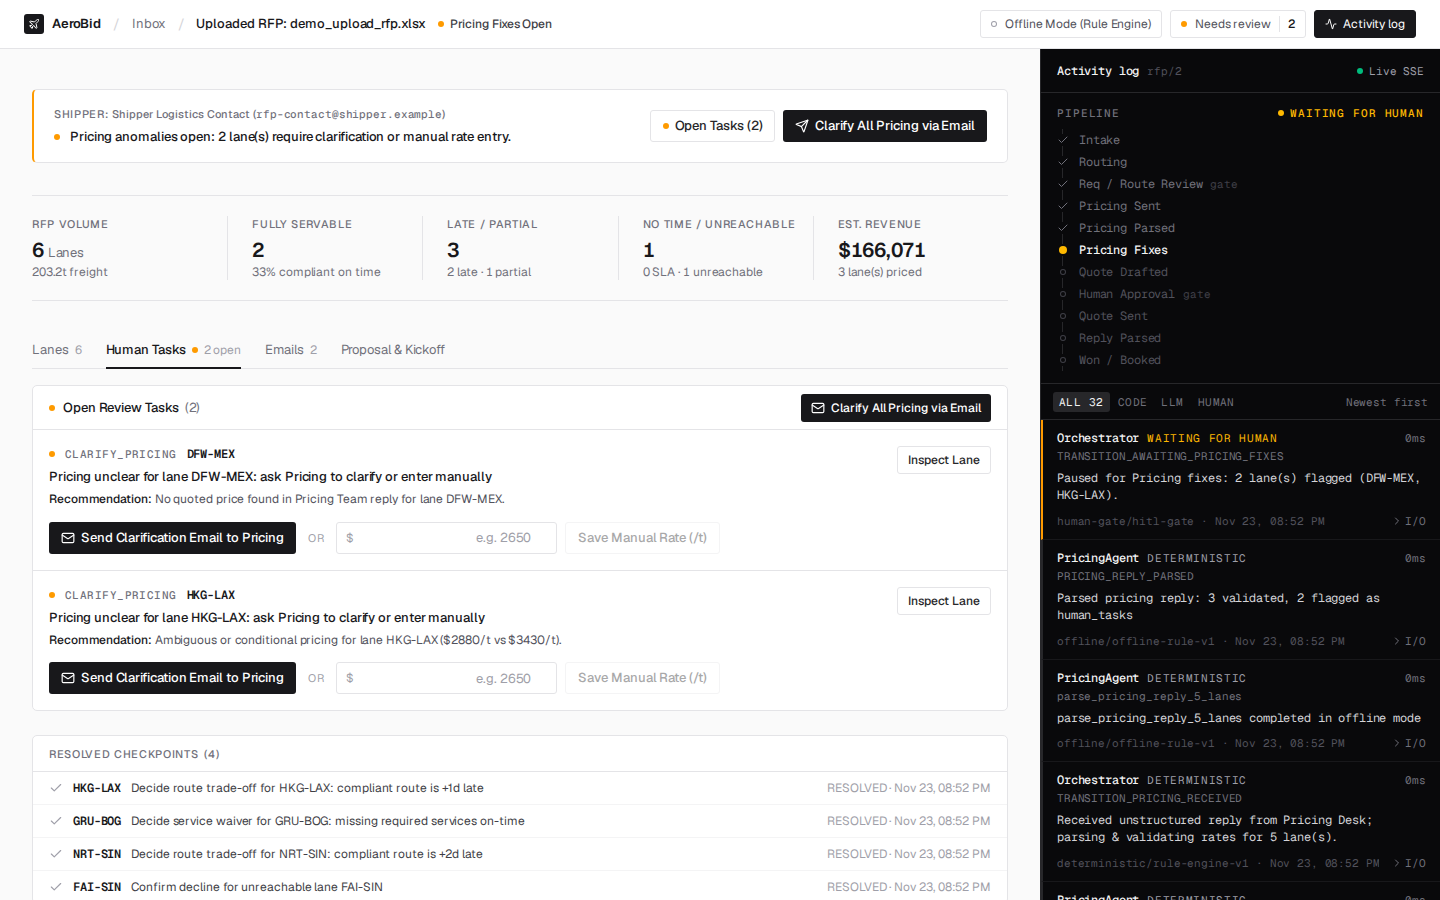
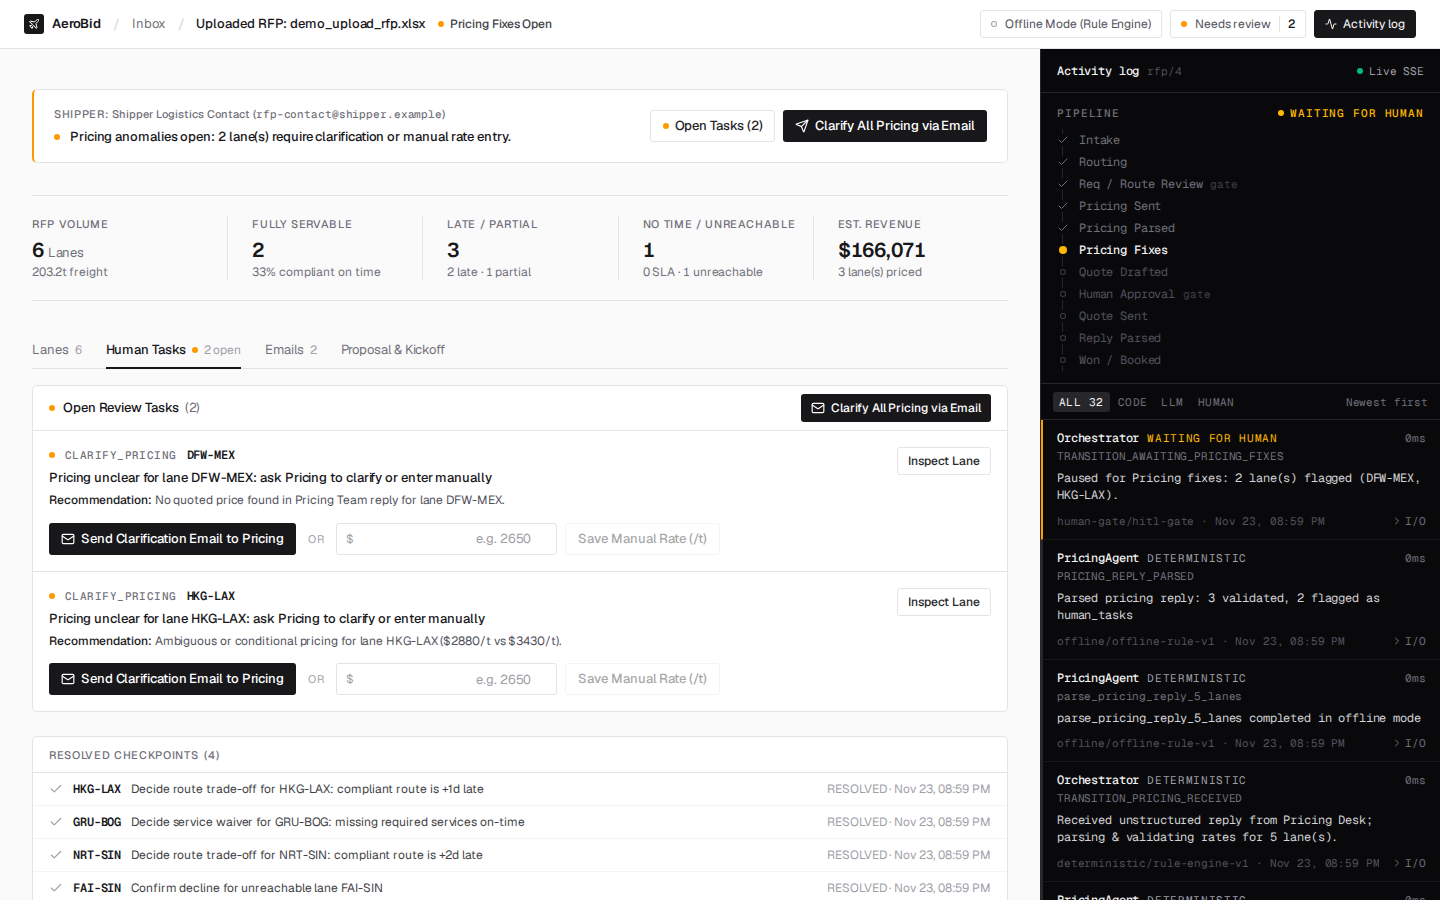
fix(ui): mobile header, drawer Escape, panel header wrap; add capture-shots script
- Collapse header labels on small screens so the RFP title stays visible
- Close the lane drawer with Escape; tidy missing-leg detail layout
- Let panel headers grow instead of overlapping content when wrapping
- Cap the activity log height on mobile
- Lane filters use aria-pressed instead of tab roles
- Add scripts/capture-shots.mjs (npm run capture-shots) and refresh shots

diff --git a/src/components/AppHeader.tsx b/src/components/AppHeader.tsx
@@ -44,7 +44,7 @@ export function AppHeader({
 
   return (
     <header className="sticky top-0 z-30 border-b border-zinc-200 bg-white">
-      <div className="flex h-12 items-center justify-between gap-4 px-6">
+      <div className="flex h-12 items-center justify-between gap-4 px-4 sm:px-6">
         <div className="flex min-w-0 items-center gap-3">
           <Link
             href="/"
@@ -60,12 +60,15 @@ export function AppHeader({
 
           {currentRfp && (
             <>
-              <span className="text-zinc-300" aria-hidden="true">
+              <span
+                className="hidden text-zinc-300 sm:inline"
+                aria-hidden="true"
+              >
                 /
               </span>
               <Link
                 href="/"
-                className="text-sm text-zinc-500 transition-colors hover:text-zinc-900"
+                className="hidden text-sm text-zinc-500 transition-colors hover:text-zinc-900 sm:inline"
               >
                 Inbox
               </Link>
@@ -77,18 +80,19 @@ export function AppHeader({
                   {currentRfp.title}
                 </span>
                 {statusMeta && (
-                  <StatusMark
-                    tone={statusMeta.tone}
-                    label={statusMeta.label}
-                    className="shrink-0"
-                  />
+                  <span className="hidden shrink-0 md:inline-flex">
+                    <StatusMark
+                      tone={statusMeta.tone}
+                      label={statusMeta.label}
+                    />
+                  </span>
                 )}
               </div>
             </>
           )}
         </div>
 
-        <div className="flex items-center gap-2">
+        <div className="flex shrink-0 items-center gap-2">
           <button
             type="button"
             onClick={handleToggleLlmMode}
@@ -101,7 +105,12 @@ export function AppHeader({
             data-testid="llm-mode-badge"
           >
             <StatusDot tone={isOfflineActive ? "muted" : "ok"} />
-            <span>{activeModelLabel}</span>
+            <span className="hidden whitespace-nowrap lg:inline">
+              {activeModelLabel}
+            </span>
+            <span className="whitespace-nowrap lg:hidden">
+              {isOfflineActive ? "Offline" : "LLM"}
+            </span>
           </button>
 
           <button
@@ -111,7 +120,9 @@ export function AppHeader({
             className="inline-flex h-7 items-center gap-2 rounded-sm border border-zinc-200 bg-white px-2.5 text-xs text-zinc-600 transition-colors hover:border-zinc-300 hover:bg-zinc-50 hover:text-zinc-900"
           >
             <StatusDot tone={openTasksCount > 0 ? "warn" : "muted"} />
-            <span>Needs review</span>
+            <span className="hidden whitespace-nowrap sm:inline">
+              Needs review
+            </span>
             <span
               className={`min-w-4 border-l border-zinc-200 pl-2 text-right font-medium tabular-nums ${
                 openTasksCount > 0 ? "text-zinc-900" : "text-zinc-400"
@@ -134,7 +145,9 @@ export function AppHeader({
               }`}
             >
               <Activity className="h-3 w-3" />
-              <span>Activity log</span>
+              <span className="hidden whitespace-nowrap sm:inline">
+                Activity log
+              </span>
             </button>
           )}
         </div>

diff --git a/src/components/LaneDetailDrawer.tsx b/src/components/LaneDetailDrawer.tsx
@@ -159,6 +159,15 @@ export function LaneDetailDrawer({
     }
   }, [lane]);
 
+  useEffect(() => {
+    if (!lane) return;
+    const handleKeyDown = (e: KeyboardEvent) => {
+      if (e.key === "Escape") onClose();
+    };
+    window.addEventListener("keydown", handleKeyDown);
+    return () => window.removeEventListener("keydown", handleKeyDown);
+  }, [lane, onClose]);
+
   if (!lane) {
     return null;
   }
@@ -440,9 +449,13 @@ export function LaneDetailDrawer({
                               label={SERVICE_FULL_LABELS[svc]}
                             />
                             {missingLegs.length > 0 && (
-                              <span className="ml-1 font-mono text-2xs text-red-700">
-                                (missing on {missingLegs.join(", ")})
-                              </span>
+                              <div className="mt-0.5 pl-4 text-2xs text-zinc-500">
+                                (missing on{" "}
+                                <span className="font-mono">
+                                  {missingLegs.join(", ")}
+                                </span>
+                                )
+                              </div>
                             )}
                           </div>
                         );

diff --git a/src/components/RfpInboxClient.tsx b/src/components/RfpInboxClient.tsx
@@ -226,7 +226,7 @@ export function RfpInboxClient({
   const firstRfpWithTasks = rfps.find((r) => r.openTasksCount > 0) ?? rfps[0];
 
   const tabClass = (active: boolean) =>
-    `inline-flex h-7 items-center gap-1.5 rounded-xs px-2.5 text-xs font-medium transition-colors ${
+    `inline-flex h-7 items-center gap-1.5 rounded-xs px-2.5 text-xs font-medium whitespace-nowrap transition-colors ${
       active
         ? "bg-zinc-100 text-zinc-900"
         : "text-zinc-500 hover:text-zinc-900"
@@ -247,7 +247,7 @@ export function RfpInboxClient({
         }}
       />
 
-      <main className="mx-auto max-w-[1120px] space-y-10 px-6 py-10">
+      <main className="mx-auto max-w-[1120px] space-y-10 px-4 py-8 sm:px-6 sm:py-10">
         <div className="flex flex-wrap items-end justify-between gap-4">
           <div>
             <h1 className="text-lg font-semibold tracking-tight text-zinc-900">

diff --git a/src/components/LaneTable.tsx b/src/components/LaneTable.tsx
@@ -94,7 +94,7 @@ export function LaneTable({
     <div className={`${PANEL} overflow-hidden`}>
       <div className="flex flex-col gap-2 border-b border-zinc-200 px-3 py-2 xl:flex-row xl:items-center xl:justify-between">
         <div
-          role="tablist"
+          role="group"
           aria-label="Lane filters"
           className="flex flex-wrap items-center gap-px"
         >
@@ -105,8 +105,7 @@ export function LaneTable({
               <button
                 key={chip.id}
                 type="button"
-                role="tab"
-                aria-selected={active}
+                aria-pressed={active}
                 onClick={() => setFilter(chip.id)}
                 data-testid={`lane-filter-${chip.id}`}
                 className={`inline-flex h-7 items-center gap-1.5 rounded-sm px-1.5 text-xs whitespace-nowrap transition-colors ${

diff --git a/src/components/AgentOrchestrationPanel.tsx b/src/components/AgentOrchestrationPanel.tsx
@@ -143,7 +143,7 @@ export function AgentOrchestrationPanel({
   return (
     <aside
       data-testid="agent-orchestration-panel"
-      className="flex min-h-[560px] w-full shrink-0 flex-col border-t border-zinc-800 bg-zinc-950 font-mono text-zinc-300 lg:sticky lg:top-12 lg:h-[calc(100vh-3rem)] lg:min-h-0 lg:w-[360px] xl:w-[400px] lg:border-t-0 lg:border-l"
+      className="flex h-[600px] w-full shrink-0 flex-col border-t border-zinc-800 bg-zinc-950 font-mono text-zinc-300 lg:sticky lg:top-12 lg:h-[calc(100vh-3rem)] lg:w-[360px] xl:w-[400px] lg:border-t-0 lg:border-l"
     >
       {/* Header ------------------------------------------------------- */}
       <div className="flex h-11 shrink-0 items-center justify-between border-b border-zinc-800 px-4">

diff --git a/src/components/ui.tsx b/src/components/ui.tsx
@@ -10,7 +10,7 @@ export const PANEL = "rounded-md border border-zinc-200 bg-white";
 
 /** Panel header strip. */
 export const PANEL_HEADER =
-  "flex flex-wrap items-center justify-between gap-3 border-b border-zinc-200 px-4 h-11";
+  "flex min-h-11 flex-wrap items-center justify-between gap-x-3 gap-y-1 border-b border-zinc-200 px-4 py-2";
 
 /** Text input / textarea / select. */
 export const INPUT =

diff --git a/src/components/RfpWorkspaceClient.tsx b/src/components/RfpWorkspaceClient.tsx
@@ -280,7 +280,7 @@ export function RfpWorkspaceClient({
       />
 
       <div className="flex flex-col lg:flex-row lg:items-start">
-        <main className="min-w-0 flex-1 px-6 py-8 lg:px-8 lg:py-10">
+        <main className="min-w-0 flex-1 px-4 py-6 sm:px-6 sm:py-8 lg:px-8 lg:py-10">
           <div className="mx-auto max-w-[1120px] space-y-8">
             {errorBanner && (
               <div
